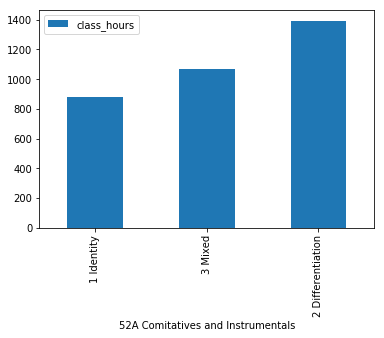
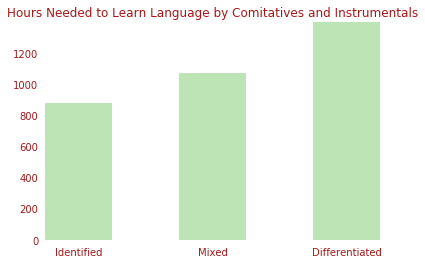
Pretty the graphs

diff --git a/_posts/2019-08-30-Anthony-Hart-and-the-Quest-for-a-Statistically-Significant-Result-About-the-Difficulty-of-Different-Languages.md b/_posts/2019-08-30-Anthony-Hart-and-the-Quest-for-a-Statistically-Significant-Result-About-the-Difficulty-of-Different-Languages.md
@@ -173,10 +173,29 @@ The most obvious thing to start with is simply the number of genders in the lang
 ![Hours Needed to Learn Language by Number of Genders](../img/AHQSSRADDL/num_of_genders.png)
 
 <!-- 
-ax = langDf.pivot_table(values=['class_hours'], index='30A Number of Genders').sort_values('class_hours').plot(kind='bar', color='g');
-plt.title("Hours Needed to Learn Language by Number of Genders");
-ax.get_legend().remove()
+ax = langDf.pivot_table(values=['class_hours'], index='30A Number of Genders').sort_values('class_hours').plot(kind='bar', color='#BCE4B5');
 
+fontColor = "#a61717"
+
+plt.autoscale(tight=True)
+
+ax.set_frame_on(False)
+
+ax.set_xticklabels(["5+", "3", "0", "2"], rotation=0, color=fontColor)
+ax.set_yticklabels(["0", "200", "400", "600", "800", "1000", "1200"], color=fontColor)
+
+plt.tick_params(
+    axis='both',
+    which='both', 
+    bottom=False,
+    top=False,
+    left=False,
+    labelbottom=True)
+
+ax.set_xlabel('')
+
+plt.title("Hours Needed to Learn Language by Number of Genders", color=fontColor);
+ax.get_legend().remove()
 plt.show()
  -->
 
@@ -193,11 +212,32 @@ The only place where gender plays a clear role in english is in pronoun usage. T
 ![Hours Needed to Learn Language by Gender Distinctions in Independent Personal Pronouns](../img/AHQSSRADDL/num_of_genders_pronouns.png)
 
 <!-- 
-ax = langDf.pivot_table(values=['class_hours'], index='44A Gender Distinctions in Independent Personal Pronouns').sort_values('class_hours').plot(kind='bar', color='g');
-plt.title("Hours Needed to Learn Languag by\n Gender Distinctions in Independent Personal Pronouns");
-ax.get_legend().remove()
+ax = langDf.pivot_table(values=['class_hours'], index='44A Gender Distinctions in Independent Personal Pronouns').sort_values('class_hours').plot(kind='bar', color='#BCE4B5');
 
+fontColor = "#a61717"
+
+plt.autoscale(tight=True)
+
+ax.set_frame_on(False)
+
+ax.set_xticklabels(["No gender distinctions", "3rd person singular only", "In 3rd person + 1st and/or 2nd person", "3rd person only, but also non-singular"],
+                    rotation=10, color=fontColor)
+ax.set_yticklabels(["0", "200", "400", "600", "800", "1000", "1200"], color=fontColor)
+
+plt.tick_params(
+    axis='both',          # changes apply to the x-axis
+    which='both',      # both major and minor ticks are affected
+    bottom=False,      # ticks along the bottom edge are off
+    top=False,         # ticks along the top edge are off
+    left=False,         # ticks along the top edge are off
+    labelbottom=True) # labels along the bottom edge are off
+
+ax.set_xlabel('')
+
+plt.title("Hours Needed to Learn Language by\nGender Distinctions in Independent Personal Pronouns", color=fontColor);
+ax.get_legend().remove()
 plt.show()
+
 -->
 
 Interestingly enough, there isn't much of a difference in class hours between the categories. That highest category does include Japanese, inclusing other languages, such as Polish and Swahili. There doesn't seem to be much sense in which languages which are similar use gender in a similar way, causing few correlations in the end.
@@ -238,13 +278,32 @@ With this, I can simply look for small p-values! Of course, let's consider the f
 
 The fist thing I find is the relation between languages with differnt words for tea.
 
-![Hours Needed to Learn Language by Gender Distinctions in Independent Personal Pronouns](../img/AHQSSRADDL/word_for_tea.png)
+![Hours Needed to Learn Language by Word for Tea](../img/AHQSSRADDL/word_for_tea.png)
 
 <!-- 
-ax = langDf.pivot_table(values=['class_hours'], index='138A Tea').sort_values('class_hours').plot(kind='bar', color='g');
-plt.title("Hours Needed to Learn Languag by\n Gender Distinctions in Independent Personal Pronouns");
-ax.get_legend().remove()
+ax = langDf.pivot_table(values=['class_hours'], index='138A Tea').sort_values('class_hours').plot(kind='bar', color='#BCE4B5');
 
+fontColor = "#a61717"
+
+plt.autoscale(tight=True)
+
+ax.set_frame_on(False)
+
+ax.set_xticklabels(['From Min Chinese "te"', "Other", 'From Sintic "cha"'], color=fontColor, rotation=0)
+ax.set_yticklabels(["0", "200", "400", "600", "800", "1000", "1200"], color=fontColor)
+
+plt.tick_params(
+    axis='both',          # changes apply to the x-axis
+    which='both',      # both major and minor ticks are affected
+    bottom=False,      # ticks along the bottom edge are off
+    top=False,         # ticks along the top edge are off
+    left=False,         # ticks along the top edge are off
+    labelbottom=True) # labels along the bottom edge are off
+
+ax.set_xlabel('')
+
+plt.title("Hours Needed to Learn Language by Word for Tea", color=fontColor);
+ax.get_legend().remove()
 plt.show()
 -->
 
@@ -271,14 +330,34 @@ It seems most likely that those languages which happen to be hard for English sp
 
 Something that seems to genuenly contribute to difficulty is the handling of nominal vs verbal conjunction. In English, they are the same ("The cat *and* the dog played *and* ran"). Some languages use two different words, such as Japanese ("猫*と*犬が遊ん*で*走った").
 
-![Hours Needed to Learn Language by Gender Distinctions in Independent Personal Pronouns](../img/AHQSSRADDL/nominal_verbal_conjunction.png)
+![Hours Needed to Learn Language by Nominal and Verbal Conjunction](../img/AHQSSRADDL/nominal_verbal_conjunction.png)
 
 <!-- 
-ax = langDf.pivot_table(values=['class_hours'], index='64A Nominal and Verbal Conjunction').sort_values('class_hours').plot(kind='bar', color='g');
-plt.title("Hours Needed to Learn Languag by\n Gender Distinctions in Independent Personal Pronouns");
-ax.get_legend().remove()
+ax = langDf.pivot_table(values=['class_hours'], index='64A Nominal and Verbal Conjunction').sort_values('class_hours').plot(kind='bar', color='#BCE4B5');
 
+fontColor = "#a61717"
+
+plt.autoscale(tight=True)
+
+ax.set_frame_on(False)
+
+ax.set_xticklabels(["Identified", "Differentiated"], color=fontColor, rotation=0)
+ax.set_yticklabels(["0", "200", "400", "600", "800", "1000", "1200", "1400", "1600"], color=fontColor)
+
+plt.tick_params(
+    axis='both',          # changes apply to the x-axis
+    which='both',      # both major and minor ticks are affected
+    bottom=False,      # ticks along the bottom edge are off
+    top=False,         # ticks along the top edge are off
+    left=False,         # ticks along the top edge are off
+    labelbottom=True) # labels along the bottom edge are off
+
+ax.set_xlabel('')
+
+plt.title("Hours Needed to Learn Language by Nominal and Verbal Conjunction", color=fontColor);
+ax.get_legend().remove()
 plt.show()
+
 -->
 
 Langauges with differentiated conjunction tend to be much more difficult, though I doubt this alone would contribute hugely to language difficulty.
@@ -287,13 +366,32 @@ Something similar can be observed with comitative and instrumental case. Comitat
 
 usage of differentiaion vs identity. This appears significatnly in two categories, 'Nominal and Verbal Conjunction' and 'Comitatives and Instrumentals'. 
 
-![Hours Needed to Learn Language by Gender Distinctions in Independent Personal Pronouns](../img/AHQSSRADDL/comitative_instrumental.png)
+![Hours Needed to Learn Language by Comitatives and Instrumentals](../img/AHQSSRADDL/comitative_instrumental.png)
 
 <!-- 
-ax = langDf.pivot_table(values=['class_hours'], index='52A Comitatives and Instrumentals').sort_values('class_hours').plot(kind='bar', color='g');
-plt.title("Hours Needed to Learn Languag by\n Gender Distinctions in Independent Personal Pronouns");
-ax.get_legend().remove()
+ax = langDf.pivot_table(values=['class_hours'], index='52A Comitatives and Instrumentals').sort_values('class_hours').plot(kind='bar', color='#BCE4B5');
 
+fontColor = "#a61717"
+
+plt.autoscale(tight=True)
+
+ax.set_frame_on(False)
+
+ax.set_xticklabels(["Identified", "Mixed", "Differentiated"], color=fontColor, rotation=0)
+ax.set_yticklabels(["0", "200", "400", "600", "800", "1000", "1200"], color=fontColor)
+
+plt.tick_params(
+    axis='both',          # changes apply to the x-axis
+    which='both',      # both major and minor ticks are affected
+    bottom=False,      # ticks along the bottom edge are off
+    top=False,         # ticks along the top edge are off
+    left=False,         # ticks along the top edge are off
+    labelbottom=True) # labels along the bottom edge are off
+
+ax.set_xlabel('')
+
+plt.title("Hours Needed to Learn Language by Comitatives and Instrumentals", color=fontColor);
+ax.get_legend().remove()
 plt.show()
 -->
 
@@ -301,14 +399,34 @@ While I'd expect this to matter, again, I doubt this alone would contribute huge
 
 Another significant result can be seen with suppletion. This is a phenomina whereby two paradigms within a language creates irregularities within the language on their interface. The most accesible example is go vs. went. Both go and the now archaic "wende" (meaning the same thing as go) ended up ocupying the same semantic territory. Nowadays, most of "wende"'s cognates are gone, but "went" remains. It's common for such irregularies to form across tense and aspect lines.
 
-![Hours Needed to Learn Language by Gender Distinctions in Independent Personal Pronouns](../img/AHQSSRADDL/suppletion.png)
+![Hours Needed to Learn Language by Suppletion According to Tense and Aspect](../img/AHQSSRADDL/suppletion.png)
 
 <!-- 
-ax = langDf.pivot_table(values=['class_hours'], index='79A Suppletion According to Tense and Aspect').sort_values('class_hours').plot(kind='bar', color='g');
-plt.title("Hours Needed to Learn Languag by\n Gender Distinctions in Independent Personal Pronouns");
-ax.get_legend().remove()
+ax = langDf.pivot_table(values=['class_hours'], index='79A Suppletion According to Tense and Aspect').sort_values('class_hours').plot(kind='bar', color='#BCE4B5');
 
+fontColor = "#a61717"
+
+plt.autoscale(tight=True)
+
+ax.set_frame_on(False)
+
+ax.set_xticklabels(["Tense", "Tense and Aspect", "None"], color=fontColor, rotation=0)
+ax.set_yticklabels(["0", "200", "400", "600", "800", "1000", "1200", "1400"], color=fontColor)
+
+plt.tick_params(
+    axis='both',          # changes apply to the x-axis
+    which='both',      # both major and minor ticks are affected
+    bottom=False,      # ticks along the bottom edge are off
+    top=False,         # ticks along the top edge are off
+    left=False,         # ticks along the top edge are off
+    labelbottom=True) # labels along the bottom edge are off
+
+ax.set_xlabel('')
+
+plt.title("Hours Needed to Learn Language by\nSuppletion According to Tense and Aspect", color=fontColor);
+ax.get_legend().remove()
 plt.show()
+
 -->
 
 This seems especially suspect to me. Whouldn't a lack of irregularies make a language easier to learn? Perhapse it does, but those languages which lack irregularies may be unlike English, making them overall harder to learn, regardless. Doing a Chi-squared test on this vs genus we see that, indeed, the existance of suppletion is tied to a langauge's history.
